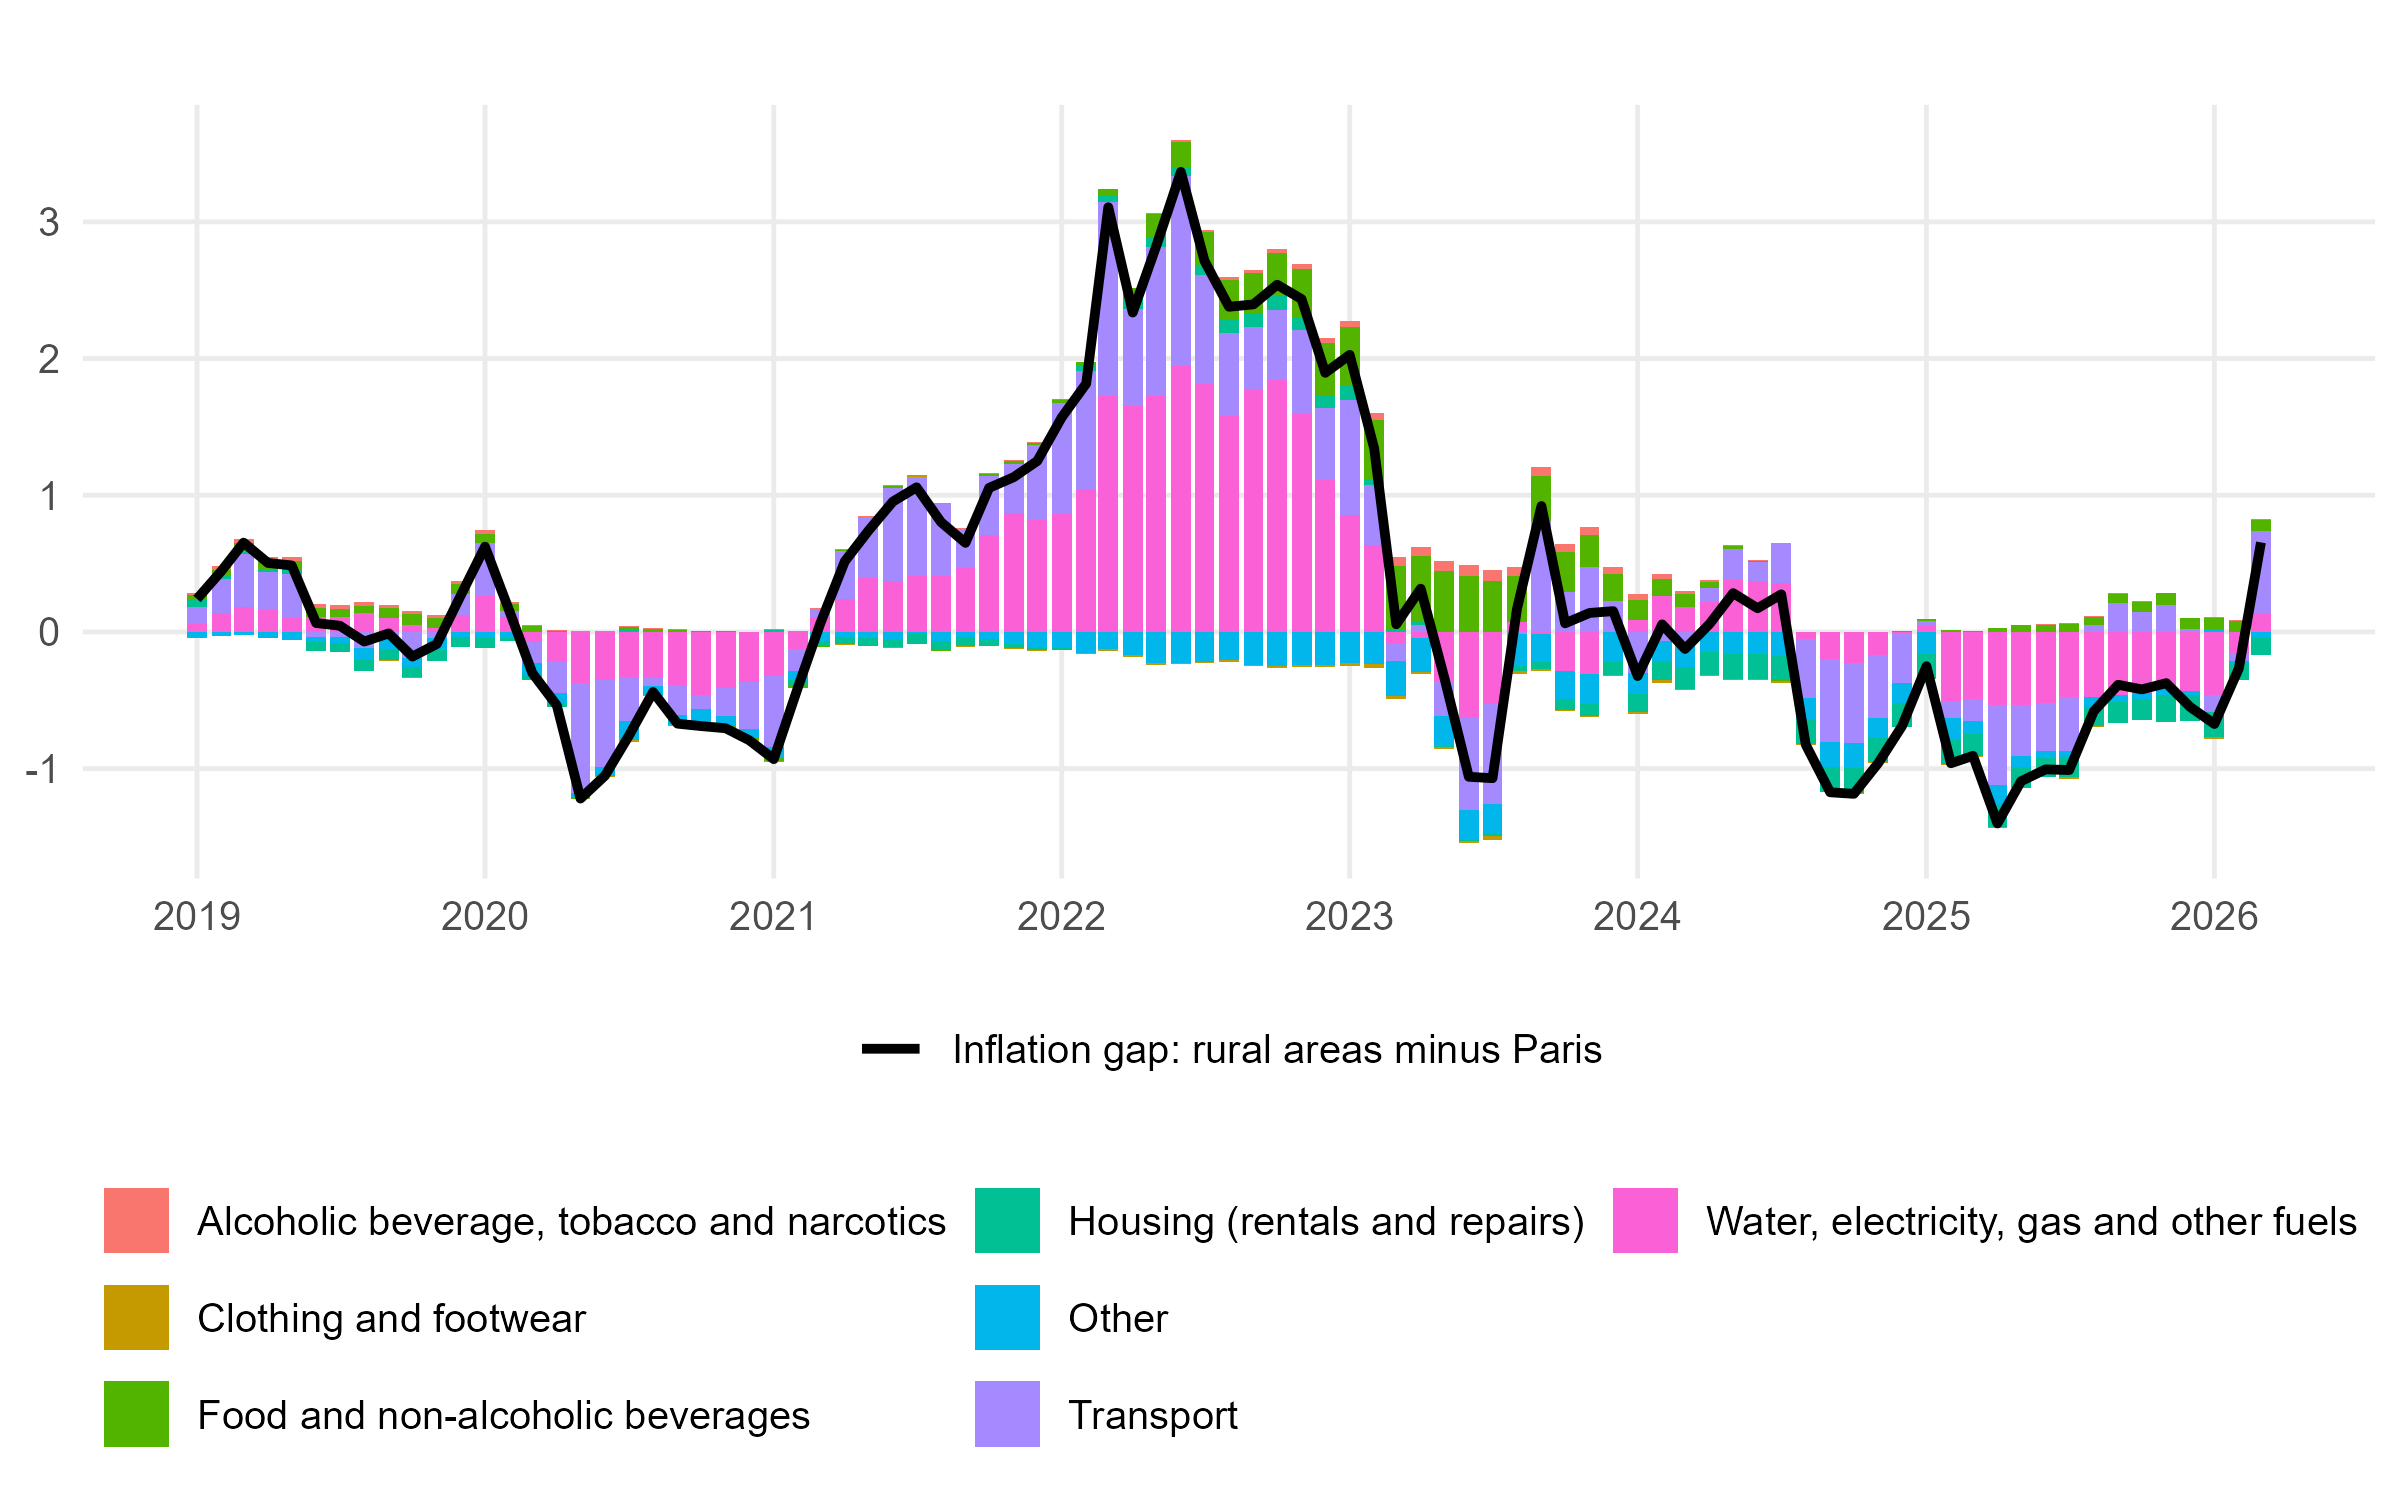
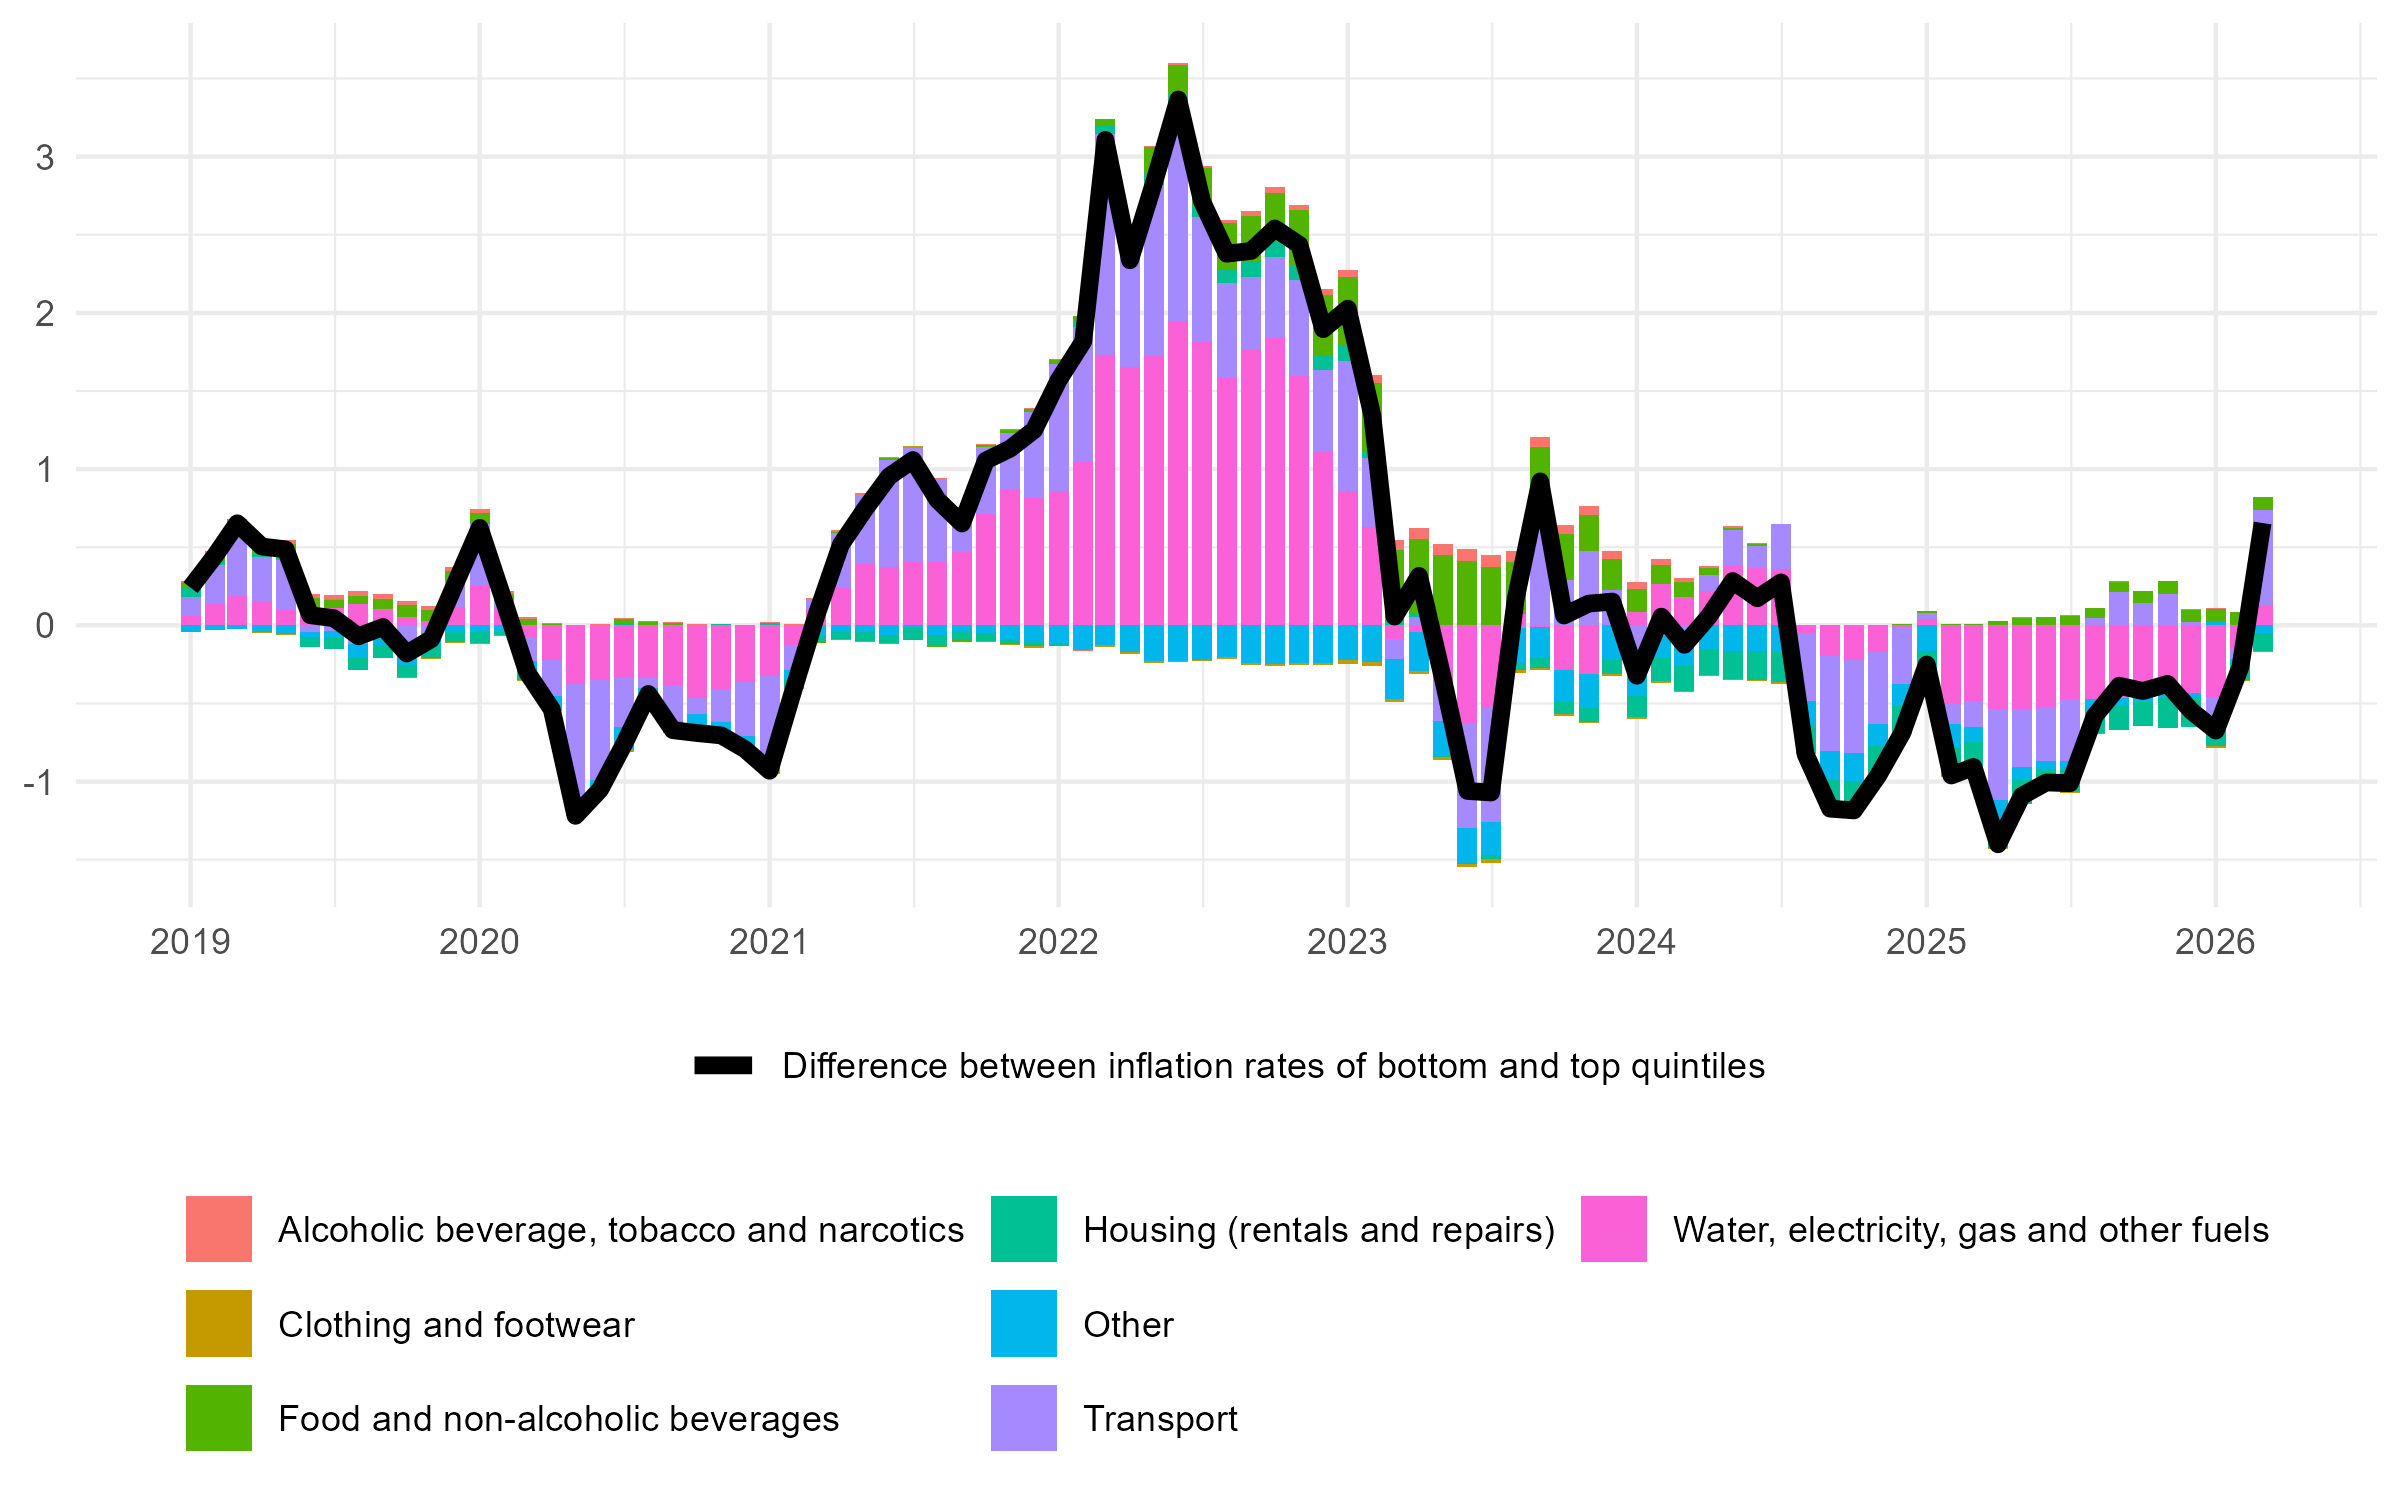
Rework France level 3 appendix figures

diff --git a/main.tex b/main.tex
@@ -426,7 +426,7 @@ Sources: ECB, authors' calculation}
 
 \subsection*{Four different Patterns of Inflation Inequality}
 
-There is significant heterogeneity among countries within euro area, particularly between older and newer member states. Figure 6 provides a comparison of inflation by income quintiles across different groups of countries in 2022. Panel (a) focuses on Baltic countries, revealing significant inflation disparities, particularly in the lower quintile. Panels (b), (c), and (d) present data for Italy, Ireland, Greece; Germany, Spain, France; and Austria, Finland, Luxembourg, respectively. The figures highlight the varying degrees of inflation inequality, with notable differences in the impact of energy and food prices on different income groups.
+There is significant heterogeneity among countries within euro area, particularly between older and newer member states. Figure 6 provides a comparison of inflation by income quintiles across different groups of countries in 2022. Panel (a) focuses on Baltic countries, revealing significant inflation disparities, particularly in the lower quintile. Panels (b) and (c) present data for Austria, Finland, Luxembourg and Germany, Spain, France, respectively. The figures highlight the varying degrees of inflation inequality, with notable differences in the impact of energy and food prices on different income groups.
 
 Inflation inequality varies significantly across euro area countries but remains relatively limited within the larger European economies. Italy, for example, experienced a 1.2 percentage point inflation gap during 2022, driven primarily by surging energy prices, whereas France's gap was mitigated by targeted fiscal interventions. In contrast, smaller countries with economies highly dependent on natural gas, such as Lithuania, Latvia, and Slovakia, experience both high inflation rates and pronounced inflation inequality.
 
@@ -450,22 +450,16 @@ Variations in consumption patterns between high- and low-income groups significa
 \hfill 
 \begin{subfigure}{0.48\textwidth} 
   \centering
-  \caption{Italy, Ireland, Greece}
-  \includegraphics[width=\linewidth,height=7cm]{fig/fig_EA_2000_2026_hicp_price_index.png}
+  \caption{Austria, Finland, Luxembourg}
+  \includegraphics[width=\linewidth,height=7cm]{fig/fig_AT_FI_LU_2022_income_inflation.png}
 \end{subfigure}
 
 \vspace{10pt} % Espace entre les deux lignes de graphiques
 
-\begin{subfigure}{0.48\textwidth} 
+\begin{subfigure}{0.48\textwidth}
   \centering
   \caption{Germany, Spain, France}
   \includegraphics[width=\linewidth,height=6cm]{fig/fig_DE_ES_FR_2022_income_inflation.png}
-\end{subfigure}
-\hfill 
-\begin{subfigure}{0.48\textwidth} 
-  \centering
-  \caption{Austria, Finland, Luxembourg}
-  \includegraphics[width=\linewidth,height=6cm]{fig/fig_AT_FI_LU_2022_income_inflation.png}
 \end{subfigure}
 
 \label{fig:comparison}
@@ -686,64 +680,32 @@ While we calculate of inflation rates for different household categories, it rem
 %%%%%%%%%%%%%%%%%%%%%%%%%%%%%%%%%%%%%%%%%%%%%%%%%%%%%%%%%%%%%%
 \begin{figure}[H]
 \centering
-\caption{Inflation by income and age group, France, COICOP level 3}
-\label{fig:app-fr-level3-inflation-income-age}
+\caption{A1. Price indices by household group, France, COICOP level 3}
+\label{fig:app-fr-level3-price-indices}
 \begin{subfigure}{0.88\textwidth}
   \centering
   \caption{Income quintiles}
-  \includegraphics[width=\linewidth,height=0.30\textheight,keepaspectratio]{fig/fig_FR_2019_2026_income_inflation_level3_Q1_Q5.png}
+  \includegraphics[width=\linewidth,height=0.22\textheight,keepaspectratio]{fig/fig_FR_1996_2026_income_price_index_level3_Q1_Q5.png}
 \end{subfigure}
 
-\vspace{8pt}
+\vspace{6pt}
 
 \begin{subfigure}{0.88\textwidth}
   \centering
   \caption{Age groups}
-  \includegraphics[width=\linewidth,height=0.30\textheight,keepaspectratio]{fig/fig_FR_2019_2026_age_inflation_level3_under25_65plus.png}
+  \includegraphics[width=\linewidth,height=0.22\textheight,keepaspectratio]{fig/fig_FR_1996_2026_age_price_index_level3_young_old.png}
 \end{subfigure}
-\vspace{10pt}
-\captionsetup{font=footnotesize, format=hang, singlelinecheck=false, justification=justified}
-\caption*{Notes: The figure reports monthly year-on-year inflation rates using the France level-3 workflow. Panel (a) compares the first and fifth standard-of-living quintiles and the aggregate. Panel (b) compares households headed by a person under 25 with households aged 65 or over and the aggregate; the 65-or-over group aggregates the INSEE 65--74 and 75+ expenditure profiles.\\
-Sources: Eurostat HICP; INSEE Budget de famille 2017; authors' calculation.}
-\end{figure}
-%%%%%%%%%%%%%%%%%%%%%%%%%%%%%%%%%%%%%%%%%%%%%%%%%%%%%%%%%%%%%%
-\newpage
 
-%%%%%%%%%%%%%%%%%%%%%%%%%%%%%%%%%%%%%%%%%%%%%%%%%%%%%%%%%%%%%%
-\begin{figure}[H]
-\centering
-\caption{Inflation burden by income quintile, France, COICOP level 3}
-\label{fig:app-fr-level3-income-burden}
-\includegraphics[width=0.9\textwidth]{fig/fig_FR_2019_2026_income_inflation_burden_level3_Q1_Q5.png}
-\vspace{10pt}
-\captionsetup{font=footnotesize, format=hang, singlelinecheck=false, justification=justified}
-\caption*{Notes: The figure reports the inflation burden by standard-of-living quintile, expressed as a share of disposable income. It combines France level-3 inflation rates with Eurostat aggregate propensity to consume by income quintile.\\
-Sources: Eurostat HICP; INSEE Budget de famille 2017; Eurostat experimental distributional accounts; authors' calculation.}
-\end{figure}
-%%%%%%%%%%%%%%%%%%%%%%%%%%%%%%%%%%%%%%%%%%%%%%%%%%%%%%%%%%%%%%
-\newpage
+\vspace{6pt}
 
-%%%%%%%%%%%%%%%%%%%%%%%%%%%%%%%%%%%%%%%%%%%%%%%%%%%%%%%%%%%%%%
-\begin{figure}[H]
-\centering
-\caption{Inflation by residence area and income price indices, France, COICOP level 3}
-\label{fig:app-fr-level3-urban-index}
 \begin{subfigure}{0.88\textwidth}
   \centering
   \caption{Residence area}
-  \includegraphics[width=\linewidth,height=0.30\textheight,keepaspectratio]{fig/fig_FR_2019_2026_urban_inflation_level3_rural_paris.png}
-\end{subfigure}
-
-\vspace{8pt}
-
-\begin{subfigure}{0.88\textwidth}
-  \centering
-  \caption{Income quintile price indices}
-  \includegraphics[width=\linewidth,height=0.30\textheight,keepaspectratio]{fig/fig_FR_2010_2026_income_price_index_level3_Q1_Q5_first_available.png}
+  \includegraphics[width=\linewidth,height=0.22\textheight,keepaspectratio]{fig/fig_FR_1996_2026_urban_price_index_level3_rural_paris.png}
 \end{subfigure}
 \vspace{10pt}
 \captionsetup{font=footnotesize, format=hang, singlelinecheck=false, justification=justified}
-\caption*{Notes: Panel (a) reports monthly year-on-year inflation rates for rural households, Paris households, and the aggregate. Panel (b) reports chained price indices for the first and fifth standard-of-living quintiles, rebased to 100 in the first year available in the level-3 calculation.\\
+\caption*{Notes: The figure reports chained price indices from 1996 using the France level-3 workflow. The panels compare income quintiles, age groups, and residence areas.\\
 Sources: Eurostat HICP; INSEE Budget de famille 2017; authors' calculation.}
 \end{figure}
 %%%%%%%%%%%%%%%%%%%%%%%%%%%%%%%%%%%%%%%%%%%%%%%%%%%%%%%%%%%%%%
@@ -752,38 +714,66 @@ Sources: Eurostat HICP; INSEE Budget de famille 2017; authors' calculation.}
 %%%%%%%%%%%%%%%%%%%%%%%%%%%%%%%%%%%%%%%%%%%%%%%%%%%%%%%%%%%%%%
 \begin{figure}[H]
 \centering
-\caption{Contributions to income and age inflation gaps, France, COICOP level 3}
-\label{fig:app-fr-level3-contributions-income-age}
+\caption{A2. Inflation by household group, France, COICOP level 3}
+\label{fig:app-fr-level3-inflation}
+\begin{subfigure}{0.88\textwidth}
+  \centering
+  \caption{Income quintiles}
+  \includegraphics[width=\linewidth,height=0.22\textheight,keepaspectratio]{fig/fig_FR_2019_2026_income_inflation_level3_Q1_Q5.png}
+\end{subfigure}
+
+\vspace{6pt}
+
+\begin{subfigure}{0.88\textwidth}
+  \centering
+  \caption{Age groups}
+  \includegraphics[width=\linewidth,height=0.22\textheight,keepaspectratio]{fig/fig_FR_2019_2026_age_inflation_level3_under25_65plus.png}
+\end{subfigure}
+
+\vspace{6pt}
+
+\begin{subfigure}{0.88\textwidth}
+  \centering
+  \caption{Residence area}
+  \includegraphics[width=\linewidth,height=0.22\textheight,keepaspectratio]{fig/fig_FR_2019_2026_urban_inflation_level3_rural_paris.png}
+\end{subfigure}
+\vspace{10pt}
+\captionsetup{font=footnotesize, format=hang, singlelinecheck=false, justification=justified}
+\caption*{Notes: The figure reports monthly year-on-year inflation rates using the France level-3 workflow. The panels compare income quintiles, age groups, and residence areas over the recent inflation episode.\\
+Sources: Eurostat HICP; INSEE Budget de famille 2017; authors' calculation.}
+\end{figure}
+%%%%%%%%%%%%%%%%%%%%%%%%%%%%%%%%%%%%%%%%%%%%%%%%%%%%%%%%%%%%%%
+\newpage
+
+%%%%%%%%%%%%%%%%%%%%%%%%%%%%%%%%%%%%%%%%%%%%%%%%%%%%%%%%%%%%%%
+\begin{figure}[H]
+\centering
+\caption{A3. Contributions to inflation gaps, France, COICOP level 3}
+\label{fig:app-fr-level3-contributions}
 \begin{subfigure}{0.88\textwidth}
   \centering
   \caption{Income gap: Q1 minus Q5}
-  \includegraphics[width=\linewidth,height=0.30\textheight,keepaspectratio]{fig/fig_FR_2019_2026_income_contribution_gap_level3_Q1_Q5.png}
+  \includegraphics[width=\linewidth,height=0.22\textheight,keepaspectratio]{fig/fig_FR_2019_2026_income_contribution_gap_level3_Q1_Q5.png}
 \end{subfigure}
 
-\vspace{8pt}
+\vspace{6pt}
 
 \begin{subfigure}{0.88\textwidth}
   \centering
   \caption{Age gap: 65 years or over minus under 25}
-  \includegraphics[width=\linewidth,height=0.30\textheight,keepaspectratio]{fig/fig_FR_2019_2026_age_contribution_gap_level3_65plus_under25.png}
+  \includegraphics[width=\linewidth,height=0.22\textheight,keepaspectratio]{fig/fig_FR_2019_2026_age_contribution_gap_level3_65plus_under25.png}
+\end{subfigure}
+
+\vspace{6pt}
+
+\begin{subfigure}{0.88\textwidth}
+  \centering
+  \caption{Residence-area gap: rural areas minus Paris}
+  \includegraphics[width=\linewidth,height=0.22\textheight,keepaspectratio]{fig/fig_FR_2019_2026_urban_contribution_gap_level3_rural_paris.png}
 \end{subfigure}
 \vspace{10pt}
 \captionsetup{font=footnotesize, format=hang, singlelinecheck=false, justification=justified}
-\caption*{Notes: Bars decompose the monthly inflation gap into broad consumption components; the black line reports the total gap. Positive values indicate higher inflation for the first group named in each panel. The age comparison aggregates the INSEE 65--74 and 75+ expenditure profiles into a 65-or-over group.\\
-Sources: Eurostat HICP; INSEE Budget de famille 2017; authors' calculation.}
-\end{figure}
-%%%%%%%%%%%%%%%%%%%%%%%%%%%%%%%%%%%%%%%%%%%%%%%%%%%%%%%%%%%%%%
-\newpage
-
-%%%%%%%%%%%%%%%%%%%%%%%%%%%%%%%%%%%%%%%%%%%%%%%%%%%%%%%%%%%%%%
-\begin{figure}[H]
-\centering
-\caption{Contributions to the rural--Paris inflation gap, France, COICOP level 3}
-\label{fig:app-fr-level3-urban-contribution}
-\includegraphics[width=0.9\textwidth]{fig/fig_FR_2019_2026_urban_contribution_gap_level3_rural_paris.png}
-\vspace{10pt}
-\captionsetup{font=footnotesize, format=hang, singlelinecheck=false, justification=justified}
-\caption*{Notes: Bars decompose the monthly inflation gap into broad consumption components; the black line reports the total gap. Positive values indicate higher inflation for rural households than for Paris households.\\
+\caption*{Notes: Bars decompose the monthly inflation gap into broad consumption components; the black line reports the total gap. Positive values indicate higher inflation for the first group named in each panel.\\
 Sources: Eurostat HICP; INSEE Budget de famille 2017; authors' calculation.}
 \end{figure}
 %%%%%%%%%%%%%%%%%%%%%%%%%%%%%%%%%%%%%%%%%%%%%%%%%%%%%%%%%%%%%%